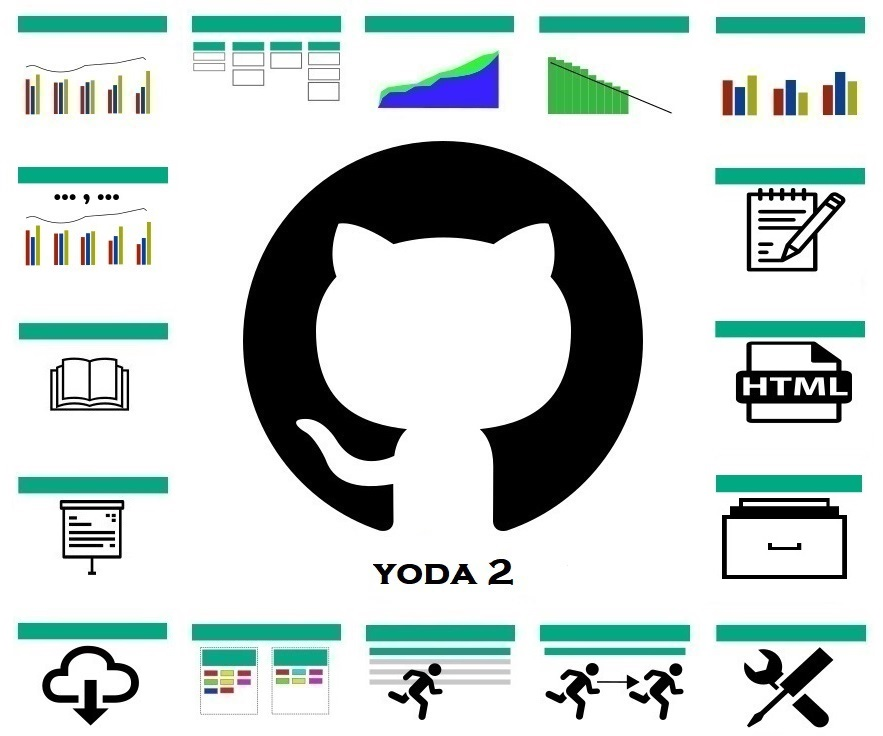
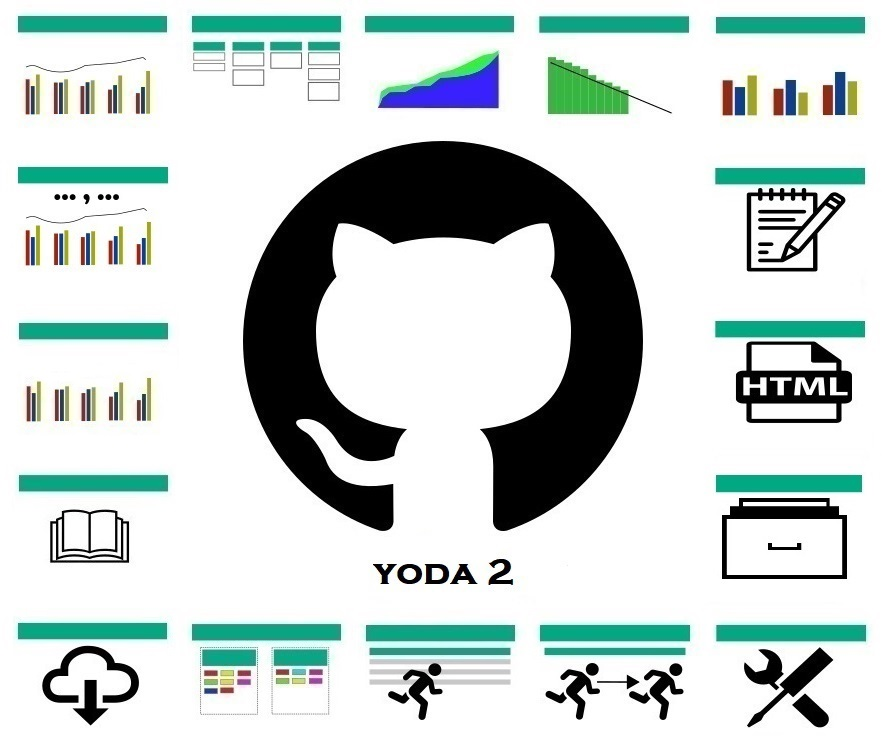
#285 more stuff

Changed region(s): [[0.0306, 0.625, 0.1835, 0.7812], [0.0306, 0.4688, 0.1835, 0.5938]]

diff --git a/docs/yoda-current-stats.js b/docs/yoda-current-stats.js
@@ -208,9 +208,9 @@ function createChart() {
 
 		// Ok, now let's count issues
 		for (var i=0; i < issues.length; i++) {
-			// Already used?
-			if (issues[i]["used"] != undefined)
-				continue;
+			// Already used?  THIS IS QUESTIONABLE..... TURNING OFF FOR NOW
+//			if (issues[i]["used"] != undefined)
+//				continue;
 				
 			var submitDateString = yoda.createDate(issues[i]);    
 			var submitDate = new Date(submitDateString);
@@ -386,7 +386,9 @@ function createChart() {
 				yAxisID: "yright",
 				data : storyPointsPerDayArray,
 				lineTension: 0,
-				borderColor: yoda.getColor("lineBackground"),
+				pointRadius: 5,
+				pointBackgroundColor: yoda.getColor("lineBackground"), 
+				showLine: false,
 				order: 1
 			});
 		} else {
@@ -396,9 +398,11 @@ function createChart() {
 				label : 'Total',
 				fill : false,
 				yAxisID: "yright",
-				data : (countType == "closed" || countType == "opened")?totalAlwaysArray : totalArray,
+				data : totalArray,
 				lineTension: 0,
-				borderColor: yoda.getColor("lineBackground"),
+				pointRadius: 5,
+				pointBackgroundColor: yoda.getColor("lineBackground"), 
+				showLine: false,
 				order: 1
 			});
 		}

diff --git a/docs/index.html b/docs/index.html
@@ -38,8 +38,8 @@ OR IN CONNECTION WITH THE SOFTWARE OR THE USE OR OTHER DEALINGS IN THE SOFTWARE.
     <area alt="" title="Burndown" href="yoda-burndown.html" shape="rect" coords="532,4,698,137" />
     <area alt="" title="Velocity" href="yoda-velocity.html" shape="rect" coords="706,4,869,137" />
     <area alt="" title="CSV Time Stats" href="yoda-time-stats-csv.html" shape="rect" coords="172,160,8,280" />
-    <area alt="" title="Manual" href="MANUAL.html" shape="rect" coords="197,300,7,430" />
-    <area alt="" title="Presentation" href="Yoda-Agile-Project-Management-with-GitHub.pdf" shape="rect" coords="190,580,10,464" />
+    <area alt="" title="Current Stats" href="yoda-current-stats.html" shape="rect" coords="197,300,7,430" />
+    <area alt="" title="Manual" href="MANUAL.html" shape="rect" coords="190,580,10,464" />
     <area alt="" title="Exporter" href="yoda-exporter.html" shape="rect" coords="9,611,176,727" />
     <area alt="" title="Label Manager" href="yoda-label-manager.html" shape="rect" coords="182,612,346,727" />
     <area alt="" title="Milestone Manager" href="yoda-milestone-manager.html" shape="rect" coords="352,613,518,722" />

diff --git a/docs/yoda-admin.html b/docs/yoda-admin.html
@@ -156,6 +156,30 @@ OR IN CONNECTION WITH THE SOFTWARE OR THE USE OR OTHER DEALINGS IN THE SOFTWARE.
 
 	<div class="frame">
 		<div class="frameheader">
+			<h3>Current Statistics defaults overwrites</h3>
+		</div>
+		
+		<div class="field">
+			<label>Category Splitting</label>
+			<input type="text" id="time_labelsplit" size="20" onchange="setLocalStorage('yoda.current.categorysplit', this.value)">
+			<span class="tooltip">Split issues into categories (X-axis)</span>
+		</div>
+
+		<div class="field">
+			<label>Label Bar Splitting</label>
+			<input type="text" id="time_labelsplit" size="20" onchange="setLocalStorage('yoda.current.labelsplit', this.value)">
+			<span class="tooltip">Split issues into bars (reg. exp or comma sep. list)</span>
+		</div>
+		
+		<div class="field">
+			<label>Other ("blank" for blank)</label>
+			<input type="text" id="time_other" size="13" onchange="setLocalStorage('yoda.current.other', this.value)">
+			<span class="tooltip">Bar label for other issues</span>
+		</div>
+	</div>
+
+	<div class="frame">
+		<div class="frameheader">
 			<h3>Burndown defaults overwrites</h3>
 		</div>
 		

diff --git a/docs/yoda-utils.js b/docs/yoda-utils.js
@@ -1804,6 +1804,7 @@ var yoda = (function() {
 			// Build the menu
 			$("#yodamenu").append('<a href="index.html">Landing Page</a>');
 			$("#yodamenu").append("<a href='javascript:yoda.openYodaTool(\"yoda-time-stats.html\", true)'>Time Statistics Report</a>");
+			$("#yodamenu").append("<a href='javascript:yoda.openYodaTool(\"yoda-current-stats.html\", true)'>Current Statistics Report</a>");
 			$("#yodamenu").append("<a href='javascript:yoda.openYodaTool(\"yoda-cfd.html\", true)'>CFD Report</a>");
 			$("#yodamenu").append("<a href='javascript:yoda.openYodaTool(\"yoda-burndown.html\", true)'>Burndown Report</a>");
 			$("#yodamenu").append("<a href='javascript:yoda.openYodaTool(\"yoda-velocity.html\", true)'>Velocity Report</a>");

diff --git a/docs/MANUAL.md b/docs/MANUAL.md
@@ -193,6 +193,14 @@ The tool may also show the so-called ECT (Engineering Cycle Time). This is defin
 
 *Note*: Across all reports, it is possible to hide the top panel (set of fields). This is done from the Yoda menu (the "Hamburger"). You may also request this by setting the URL argument `hidepanel=true`.
 
+
+## Issue Statistics Report (Current View)
+
+A variant of the issues statistics report that focuses strictly on open issues is also available. This case considers naturally only the current situation. Consequently, all parameters related to dates (start date, end date, interval, etc.) is of course not valid and thus not present. Instead the issues may be grouped along the X-axis into different categories. The splitting into categories works in exactly the same way as when splitting issues into different bars. 
+
+In effect, this allows issues to be split according to two dimensions; a category along the X-axis and the actual bars (stacked or non-stacked) along the Y-axis.
+
+
 ### Use for time based velocity charts
 
 As a further option, it is possible to set-up the tool to work out velocity based on estimates (in the body of the issue or in labels). The velocity is calculated as the total story points estimates for all issues *closed* during the interval (note that this is the interval leading *up to* the date shown). Right right side axis will change in this case to display the average story points per day.
